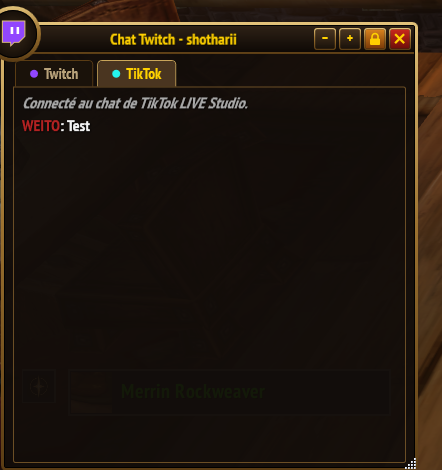
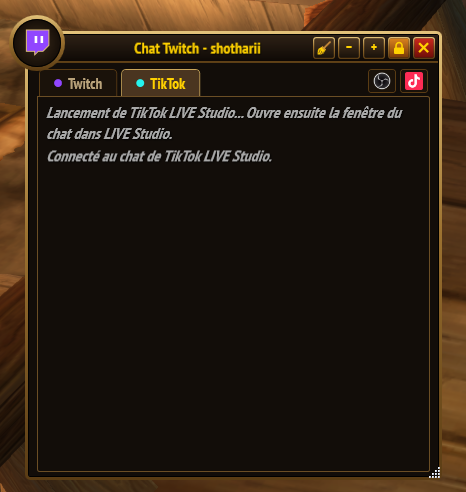
Nouvelle capture de l'onglet TikTok

Changed region(s): [[0.0, 0.0, 1.0, 1.0], [0.9706, 0.983, 1.0, 1.0]]

diff --git a/README.md b/README.md
@@ -30,7 +30,7 @@ Créé par **Shotharii** — viens me voir en live :
 <table>
 <tr>
 <td align="center"><img src="captures/onglet-twitch.png" width="380" alt="Onglet Twitch"><br><b>Onglet Twitch</b> : modération, AutoMod, bouton pour vider le chat et icônes OBS / TikTok LIVE Studio</td>
-<td align="center"><img src="captures/onglet-tiktok.png" width="380" alt="Onglet TikTok"><br><b>Onglet TikTok</b> : le chat de ton LIVE TikTok</td>
+<td align="center"><img src="captures/onglet-tiktok.png" width="380" alt="Onglet TikTok"><br><b>Onglet TikTok</b> : le chat de ton LIVE TikTok, via TikTok LIVE Studio</td>
 </tr>
 </table>
 
